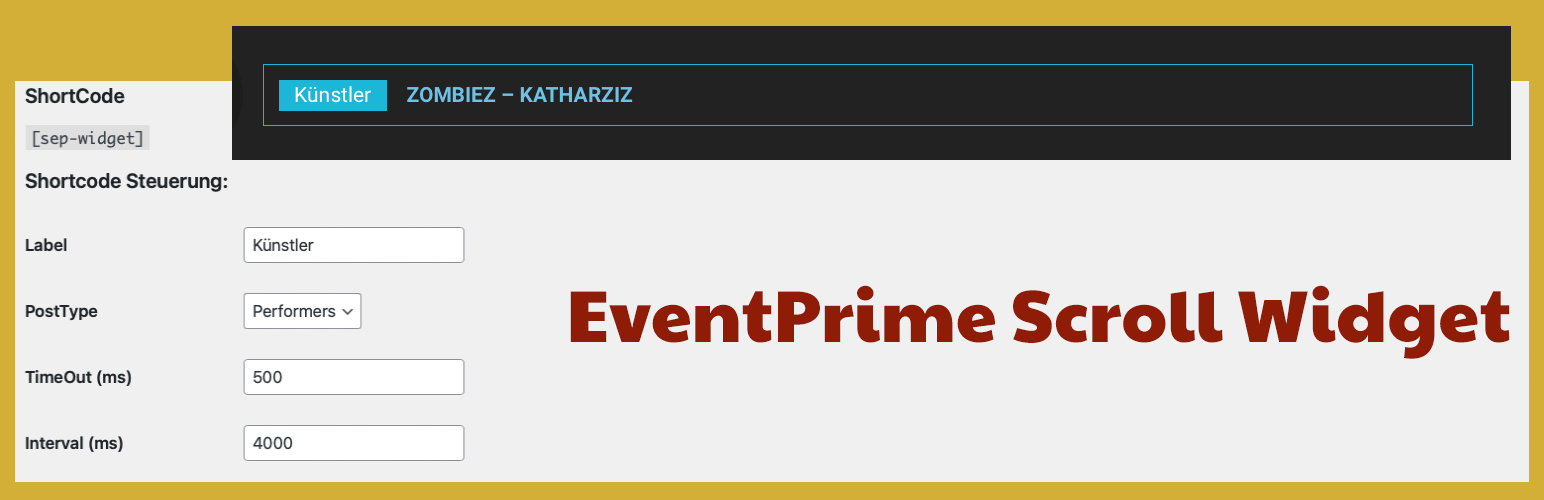
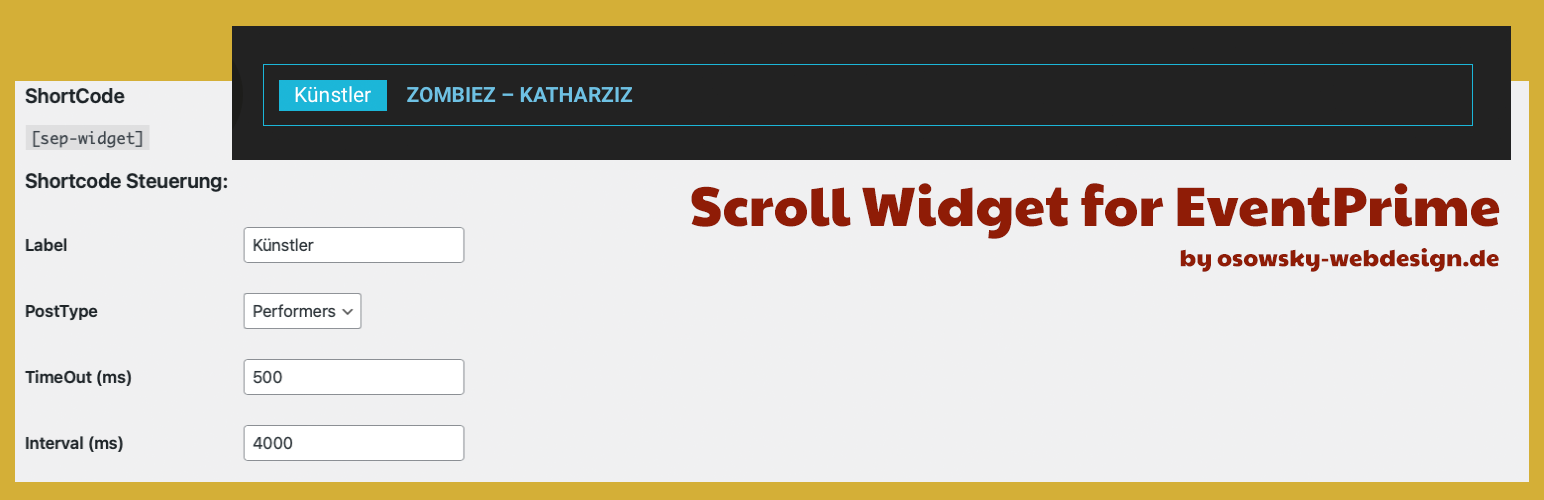
fix wp issues

Changed region(s): [[0.342, 0.57, 0.9948, 0.72], [0.4352, 0.36, 0.9948, 0.48], [0.7461, 0.51, 0.9948, 0.54]]

diff --git a/scroll-eventprime-performer.php b/scroll-eventprime-performer.php
@@ -1,9 +1,9 @@
 <?php
 /**
-* Plugin Name: EventPrime Scroll Widget
-* Plugin URI: https://osowsky-webdesign.de/plugins/eventprime-scroll-widget
-* Description: This plugin generates links from posts with a specific post_type and displays them in a scrolling widget.
-* Version: 1.2.7
+* Plugin Name: Scroll Widget for EventPrime
+* Plugin URI: https://osowsky-webdesign.de/plugins/scroll-widget-for-eventprime
+* Description: This plugin generates links from posts eventprime with a specific post_type and displays them in a scrolling widget. IMPORTANT! This is clearly NOT an official plugin from EventTime
+* Version: 1.2.8
 * Requires at least: 5.8.0
 * Requires PHP:      8.0
 * Author: Silvio Osowsky
@@ -17,8 +17,8 @@ add_action('admin_menu', 'sep_scroll_plugin_settings');
 
 function sep_scroll_plugin_settings() {
   add_options_page(
-    'EventPrime Scroll Widget', // Page title
-    'EventPrime Scroll', // Menu title
+    'Scroll Widget for EventPrime', // Page title
+    'Scroll Widget for EventPrime', // Menu title
     'manage_options', // Capability
     'sep-scroll-plugin-settings', // Menu slug
     'sep_scroll_plugin_options' // Callback function
@@ -40,19 +40,19 @@ function sep_scroll_plugin_options() {
   
   ?>
     <div class="wrap">
-      <h1>EventPrime Scroll Widget</h1>
-      <p><?php _e( 'This plugin generates links from posts with a specific post_type and displays them in a scrolling widget.', 'eventprime-scroll-widget' ); ?></p>
+      <h1>Scroll Widget for EventPrime</h1>
+      <p><?php _e( 'This plugin generates links from posts of the officiel EventPrime-Plugin with a specific post_type and displays them in a scrolling widget.', 'scroll-widget-for-eventprime' ); ?></p>
       <h2>ShortCode</h2>
-      <p><?php _e( '<code>[sep-widget]</code>', 'eventprime-scroll-widget' ); ?></p>
+      <p><?php _e( '<code>[sep-widget]</code>', 'scroll-widget-for-eventprime' ); ?></p>
       <form method="post" action="options.php">
         <?php settings_fields('sep_scroll_plugin_options_group'); ?>
         <?php do_settings_sections('sep_scroll_plugin_settings'); ?>
-        <h2><?php _e( 'Shortcode Steuerung:', 'eventprime-scroll-widget' ); ?></h2>
+        <h2><?php _e( 'Shortcode Steuerung:', 'scroll-widget-for-eventprime' ); ?></h2>
         <table class="form-table">
           <tbody>
             <tr>
               <th scope="row">
-                <label for="label"><?php _e( 'Label', 'eventprime-scroll-widget' ); ?></label>
+                <label for="label"><?php _e( 'Label', 'scroll-widget-for-eventprime' ); ?></label>
               </th>
               <td>
                 <input type="text" id="label" name="sep_scroll_plugin_options[label]" value="<?php echo esc_attr($label); ?>">
@@ -60,7 +60,7 @@ function sep_scroll_plugin_options() {
             </tr>
             <tr>
               <th scope="row">
-                <label for="posttype"><?php _e( 'PostType', 'eventprime-scroll-widget' ); ?></label>
+                <label for="posttype"><?php _e( 'PostType', 'scroll-widget-for-eventprime' ); ?></label>
               </th>
               <td>
                 <select id="posttype" name="sep_scroll_plugin_options[posttype]">
@@ -72,7 +72,7 @@ function sep_scroll_plugin_options() {
             </tr>
             <tr>
               <th scope="row">
-                <label for="timeOut"><?php _e( 'TimeOut', 'eventprime-scroll-widget' ); ?> (ms)</label>
+                <label for="timeOut"><?php _e( 'TimeOut', 'scroll-widget-for-eventprime' ); ?> (ms)</label>
               </th>
               <td>
                 <input type="text" id="timeOut" name="sep_scroll_plugin_options[timeOut]" value="<?php echo esc_attr($timeOut); ?>">
@@ -80,7 +80,7 @@ function sep_scroll_plugin_options() {
             </tr>
             <tr>
               <th scope="row">
-                <label for="interVal"><?php _e( 'Interval', 'eventprime-scroll-widget' ); ?> (ms)</label>
+                <label for="interVal"><?php _e( 'Interval', 'scroll-widget-for-eventprime' ); ?> (ms)</label>
               </th>
               <td>
                 <input type="text" id="interVal" name="sep_scroll_plugin_options[interVal]" value="<?php echo esc_attr($interVal); ?>">
@@ -187,27 +187,26 @@ function sep_widget_shortcode($atts) {
         vertical-align: middle;
       }
 
-		.sep-widget-featured {
-		  position: relative;
-		  display: inline-block;
-		  padding: 0 15px;
-		  margin-right: 20px;
-		  color: white;
-		  background-color: #1BB6D8;
-		  float: left;
-		}
+      .sep-widget-featured {
+        position: relative;
+        display: inline-block;
+        padding: 0 15px;
+        margin-right: 20px;
+        color: white;
+        background-color: #1BB6D8;
+        float: left;
+      }
 
-		.sep-widget-featured:before {
-		  content: '';
-		  position: absolute;
-		  top: 0;
-		  bottom: 0;
-		  right: -15px;
-		  width: 0;
-		  border-bottom: 30px solid transparent;
-		  border-left: 15px solid #1BB6D8;
-		}
-
+      .sep-widget-featured:before {
+        content: '';
+        position: absolute;
+        top: 0;
+        bottom: 0;
+        right: -15px;
+        width: 0;
+        border-bottom: 30px solid transparent;
+        border-left: 15px solid #1BB6D8;
+      }
   </style>";
 
   $output .= "<script>
@@ -286,7 +285,7 @@ class Sep_Scroll_Eventprime_Widget extends WP_Widget {
     parent::__construct(
       'sep_scroll_event_prime_widget', // Widget-Identifikator
       __( 'Scroll EventPrime Performer', 'text_domain' ), // Widget-Name
-      array( 'description' => __( 'Displays links from posts with a specific post_type in a scrolling widget.', 'text_domain' ), // Widget-Beschreibung
+      array( 'description' => __( 'Displays links from posts with a specific post_type from EventPrim in a scrolling widget.', 'text_domain' ), // Widget-Beschreibung
       )
     );
     $this->widget_id = $this->id_base . '-' . $this->number;

diff --git a/README.md b/README.md
@@ -2,7 +2,7 @@
 
 Contributors: Silvio Osowsky  
 Donate link: <https://osowsky-webdesign.de>  
-Tags: eventprime, wordpress, widget, scroll
+Tags: wordpress, widget, scroll, eventprime
 Requires at least: 5.0  
 Tested up to: 6.1.1  
 Stable tag: 1.2.6  
@@ -12,9 +12,12 @@ License URI: <https://www.gnu.org/licenses/gpl-3.0.html>
 
 ## Beschreibung
 
-Diese Plugin stellt ein Widget in Form eines ShortCodes zur Verfügung.
-Im Adminbereich können folgende Attribute zur ShortCode Steuerung genutzt werden:
+Diese Plugin stellt ein Widget in Form eines ShortCodes zur Verfügung, welches Performer und Events Links aus dem Plugin "EventPrime" anzeigt.
 
+Achtung! Dies ist KEIN offizielles Plugin von EventPrime (<https://eventprime.net>)!
+
+## Arbeitsweise
+Im Adminbereich können folgende Attribute an das Widget übergeben werden:
 * Label: Anzeige einer Info vor dem Scrollbreich des Widget
 * PostType: Auswahl, zu welchen Post Typen die Links generiert werden sollen
 * TimeOut: Setzen eines Timeout für die Scrollgeschwindigkeit in ms 
